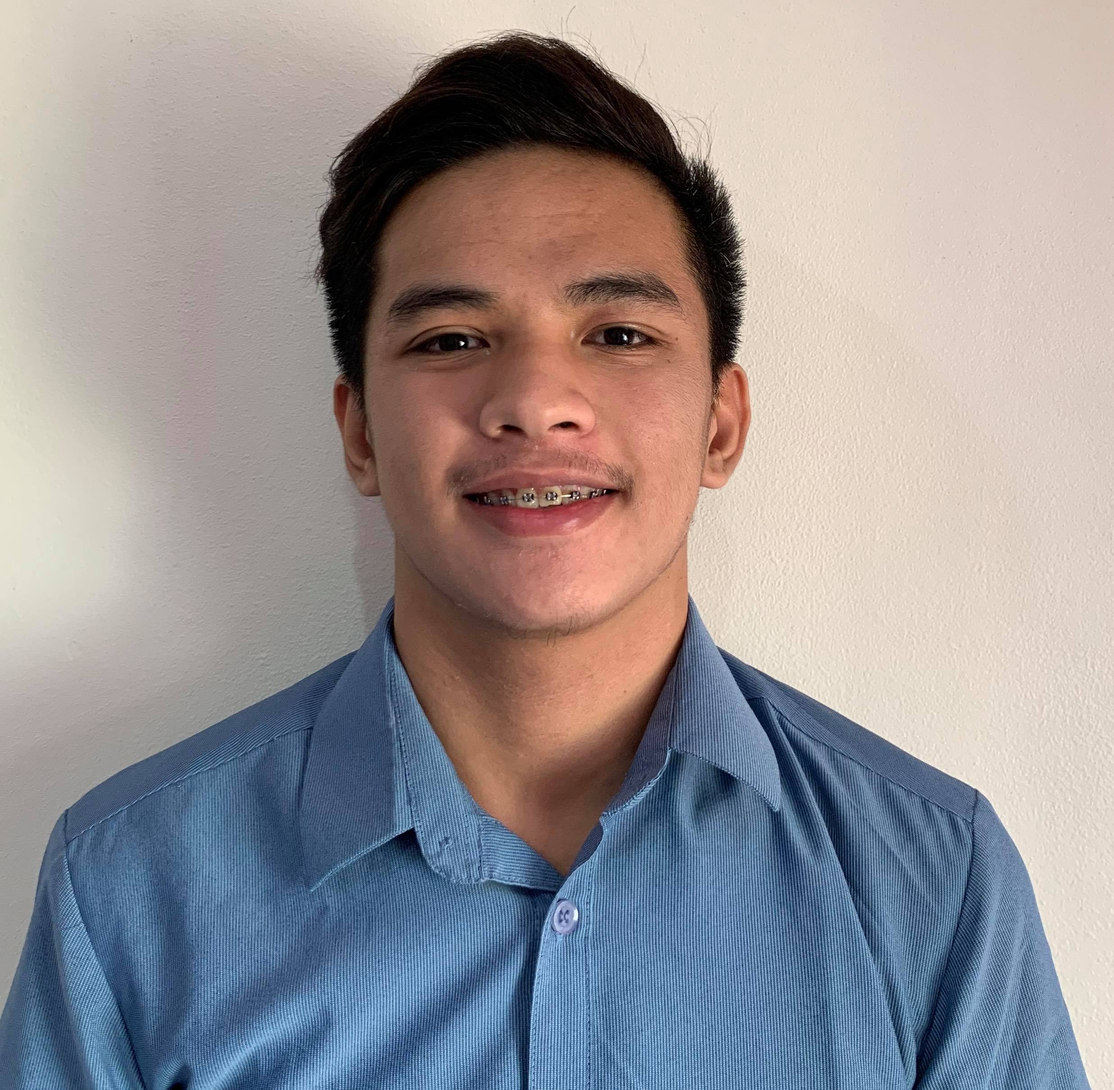
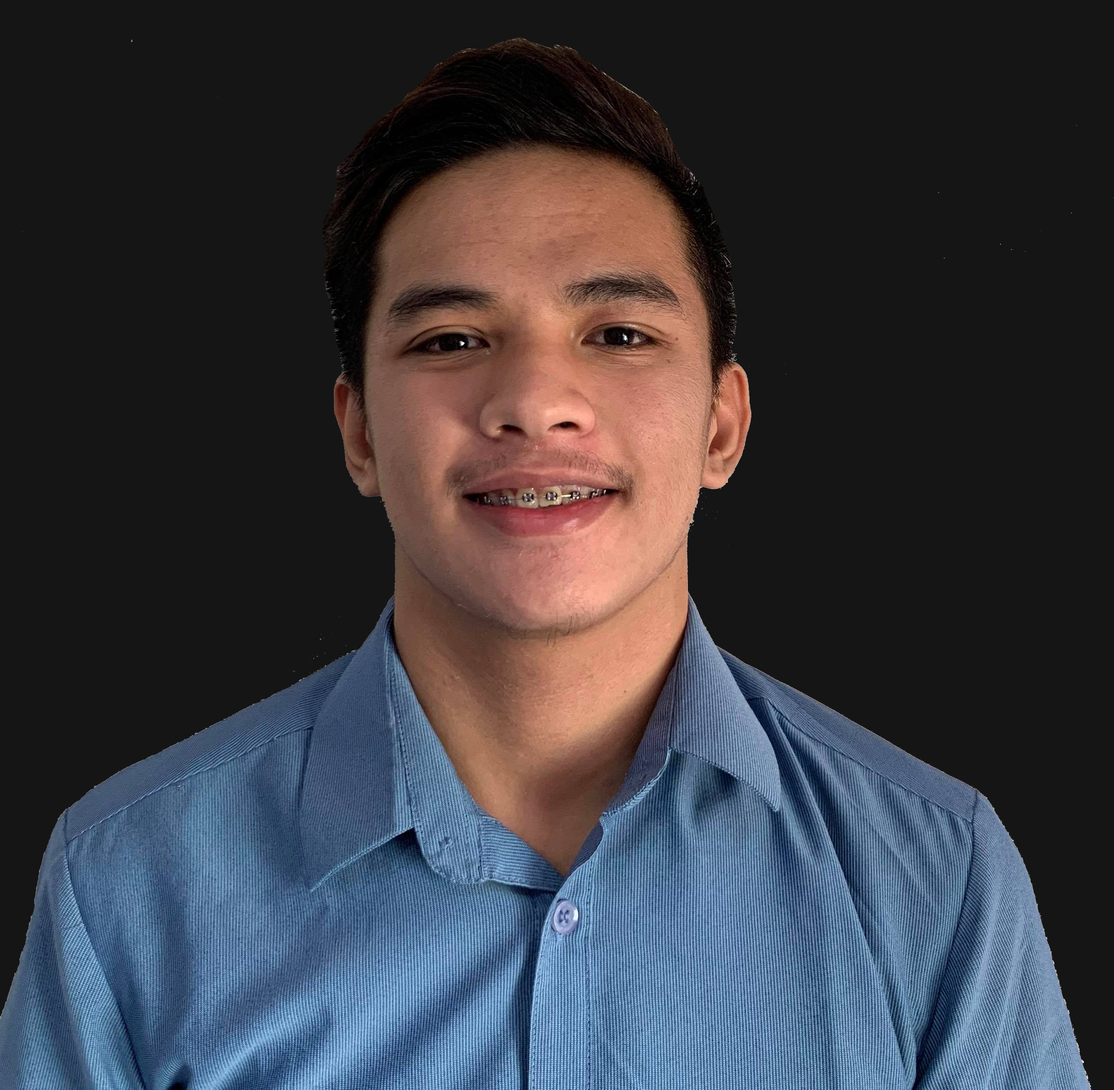
header and body code added

diff --git a/index.html b/index.html
@@ -14,24 +14,27 @@
 	<header>
 		<header>
 			<nav class="navbar navbar-expand-lg fixed-top">
-
+				<a class="navbar-brand text-white" href="#">
+				    <img src="Icons/logo3.png" width="30" height="30" alt="" class="d-inline-block align-top ">
+				    Developer
+				</a>
 			  <button class="navbar-toggler" type="button" data-toggle="collapse" data-target="#navbarNavAltMarkup" aria-controls="navbarNavAltMarkup" aria-expanded="false" aria-label="Toggle navigation">
-			    <i class="fas fa-bars"></i>
+			   <span class="navbar-toggler-icon"></span>
 			  </button>
 
 			  <div class="collapse navbar-collapse" id="navbarNav">
-			    <ul class="navbar-nav mx-auto">
+			    <ul class="navbar-nav ml-auto mr-5">
 			      <li class="nav-item active">
-			        <a class="nav-link text-white" href="#">Home </a>
+			        <a class="nav-link" href="#">Home </a>
 			      </li>
 			      <li class="nav-item">
-			        <a class="nav-link text-white" href="#">About</a>
+			        <a class="nav-link" href="#">About</a>
 			      </li>
 			      <li class="nav-item">
-			        <a class="nav-link text-white" href="#">Projects</a>
+			        <a class="nav-link" href="#">Projects</a>
 			      </li>
 			      <li class="nav-item">
-			        <a class="nav-link text-white" href="#">Contact</a>
+			        <a class="nav-link" href="#">Contact</a>
 			      </li>
 			      
 			    </ul>
@@ -54,10 +57,31 @@
 			
 		</div>
 		<section>
+			<h2 class="d-block text-center pt-5">About Me</h2>
 			<div class="container-fluid">
-				<div class="row">
-					<div class="col"></div>
-					<div class="col"></div>
+				<div class="row mt-5">
+					<div class="col-lg-7 col-12 d-block text-center " id="img">
+						<img src="picture2.jpg" class="img-fluid" height="350" width="350 ">
+					</div>
+					<div class="col-lg-4 col-12 text-center " id="second">
+						<p>I'm student at National University - Manila taking Bachelor Science in Computer Science major in Machine Learning</p>
+						<p>I enrolled in Zuitt Bootcamp while studying at National University to improve my skills in programming and to be a Fullstack Developer while I didn't get my degree.</p>
+						<h4 class="border-bottom w-50 mx-auto">Skills and Hobbies</h4>
+						<div class="row mt-4">
+							<div class="col">
+								<h5>Photo Editing</h5>
+								<h5>Video Editing</h5>
+								<h5>Coding</h5>
+
+							</div>
+							<div class="col">
+								<h5>Swimming</h5>
+								<h5>Video Games</h5>
+								<h5>Running</h5>
+							</div>
+						</div>
+						
+					</div>
 				</div>
 			</div>
 		</section>

diff --git a/style.css b/style.css
@@ -4,27 +4,82 @@
 	margin: 0;
 	padding: 0;
 	font-family: 'Merriweather', serif;
-}
-.jumbotron {
-	background-image: url(bg1.png);
-	height: 100vh;
-	background-size: cover;
-	background-position: center;
 	color: white;
-	border-radius: 0px!important; 
-	margin-bottom: 0px;
 }
-.jumbotron #caption .intro {
-	margin-top: 100px;
+@media screen and (min-width: 986px) {
+	.jumbotron {
+		background-image: url(bg1.png);
+		height: 100vh;
+		background-size: cover;
+		background-position: right;
+		color: white;
+		border-radius: 0px!important; 
+		margin-bottom: 0px;
+		
+	}
+	.jumbotron #caption .intro {
+		margin-top: 100px;
+
+	}
+	section  {
+		background-color: black;
+		height: 90vh;
+	}
 }
-section .container-fluid {
-	background-color: black;
-	height: 100vh;
+@media screen and (max-width:  986px){
+	.jumbotron {
+		background-image: url(bg2.png);
+		height: 100vh;
+		background-size: cover;
+		background-position: center;
+		color: white;
+		border-radius: 0px!important; 
+		margin-bottom: 0px;
+		
+	}
+	.jumbotron #caption .intro {
+		margin-top: 250px;
+
+	}
+	section  {
+		background-color: black;
+		height: 130vh;
+	}
+	section .container-fluid #second {
+		margin-top: 30px;
+	}
 }
-nav {
+@media screen and (max-width: 500px){
+	.jumbotron {
+		background-image: url(bg2.png);
+		height: 100vh;
+		background-size: cover;
+		background-position: center;
+		color: white;
+		border-radius: 0px!important; 
+		margin-bottom: 0px;
+		
+	}
+	.jumbotron #caption .intro {
+		margin-top: 100px;
+
+	}
+	section  {
+		background-color: black;
+		height: 150vh;
+	}
+}
+
+nav div a{
 	font-size: 20px;
+	color: white;
 }
 nav div a:hover {
-	color: black;
+	color: #000000;
+	border: white;
 	background-color: white;
+}
+section .container-fluid .row #img img {
+	border-radius: 10%;
+	border: 2px solid;
 }
